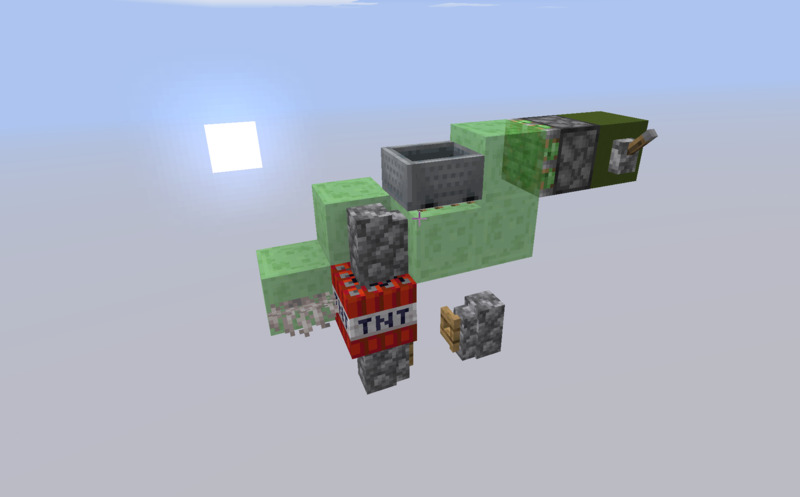
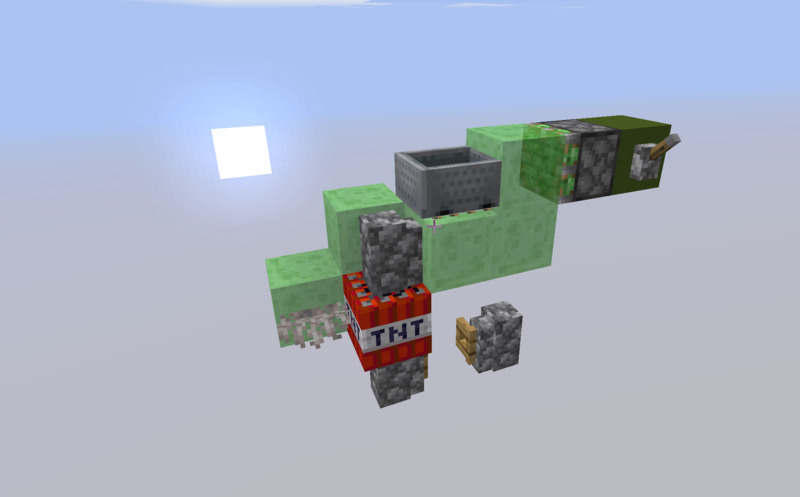
fixed image resolutions for display next to each other

Changed region(s): [[0.3125, 0.2113, 0.875, 0.8149], [0.25, 0.2414, 0.3438, 0.3622]]

diff --git a/_drafts/tnt-dupers.md b/_drafts/tnt-dupers.md
@@ -3,6 +3,13 @@ title: TNT Dupers
 layout: post
 tags: redstone tnt
 ---
+
+> As of 1.16, TNT dupers seem on their way out.  Why write about them now?
+> [Last Chance to See](https://en.wikipedia.org/wiki/Last_Chance_to_See).
+> In the next year or so, I plan to dupe all the TNT and tunnel all the Bores.
+> \#NewYearsResolution
+
+
 ## How do TNT Dupers work?
 
 A BUDed TNT gets a block update immediately before it is
@@ -45,7 +52,7 @@ TNT with 2 walls and a fence gate.  This is great for stationary farms.
 
 ### The Kades Duper
 
-This variation is actually by Kades.  It dupes on pull.
+This variation is by Kades.  It dupes on pull.
 
 * Easy to figure out the correct position
 * Easy to assemble and re-assemble
@@ -69,9 +76,9 @@ first pull will dupe.
 There is a 2-way option by putting an additional block behind the slimeblock 
 that holds the coral fan.
 
-### The Mytteri Push Duper
+### The Mytteri Duper
 
-The famous one.  Dupes on push.  For a stationary farm I prefer the pull duper,
+The famous one.  Dupes on push.  For a stationary farm I prefer the Kades duper,
 for a flying machine I would consider other designs first.
 
 * Easy to assemble, can be reassembled

diff --git a/_drafts/todo.md b/_drafts/todo.md
@@ -1,0 +1,17 @@
+---
+title: Todo
+layout: post
+---
+
+* Auto-Crafting: https://www.youtube.com/watch?v=IJTeOBo6fMk , also Gnembon video
+* Bamboo Farm Dimensions:  full hopper minecart into hopper 2.13 min,
+  double speed 1.06 min.  so 3 pickups vs 5 pickups until items despawn,
+  which is 64m long vs 106m.  So: up to 64 blocks hopper speed,
+  up to 128 hopper speed at either end, up to 212 double hopper speed at either end.
+  Note: hopper should lead to buffer storage e.h. barrel. 64 long bamboo field,
+  22 wide, 21k items in full harvest (6 double chests) will taken 2.3 hours
+  if single hopper line is used for the combined output. Bamboo growth:
+  every 4096 game ticks on average, approx 50 minutes (note they don't all grow
+  to 16 blocks, it's 12-16 actually). so length around 45 m for double speed line,
+  above that use water streams.
+
